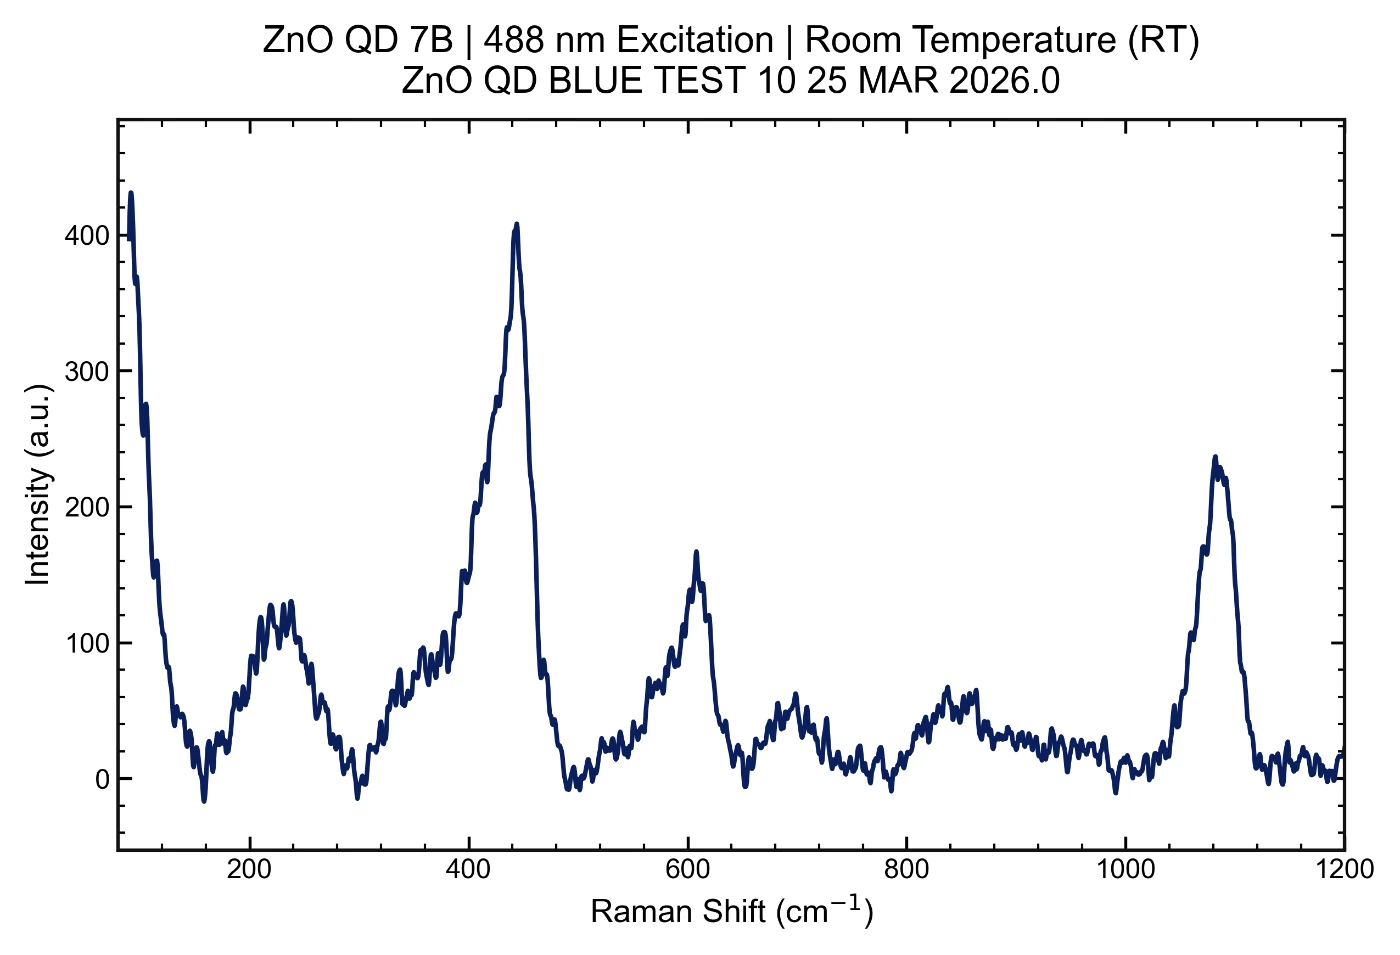
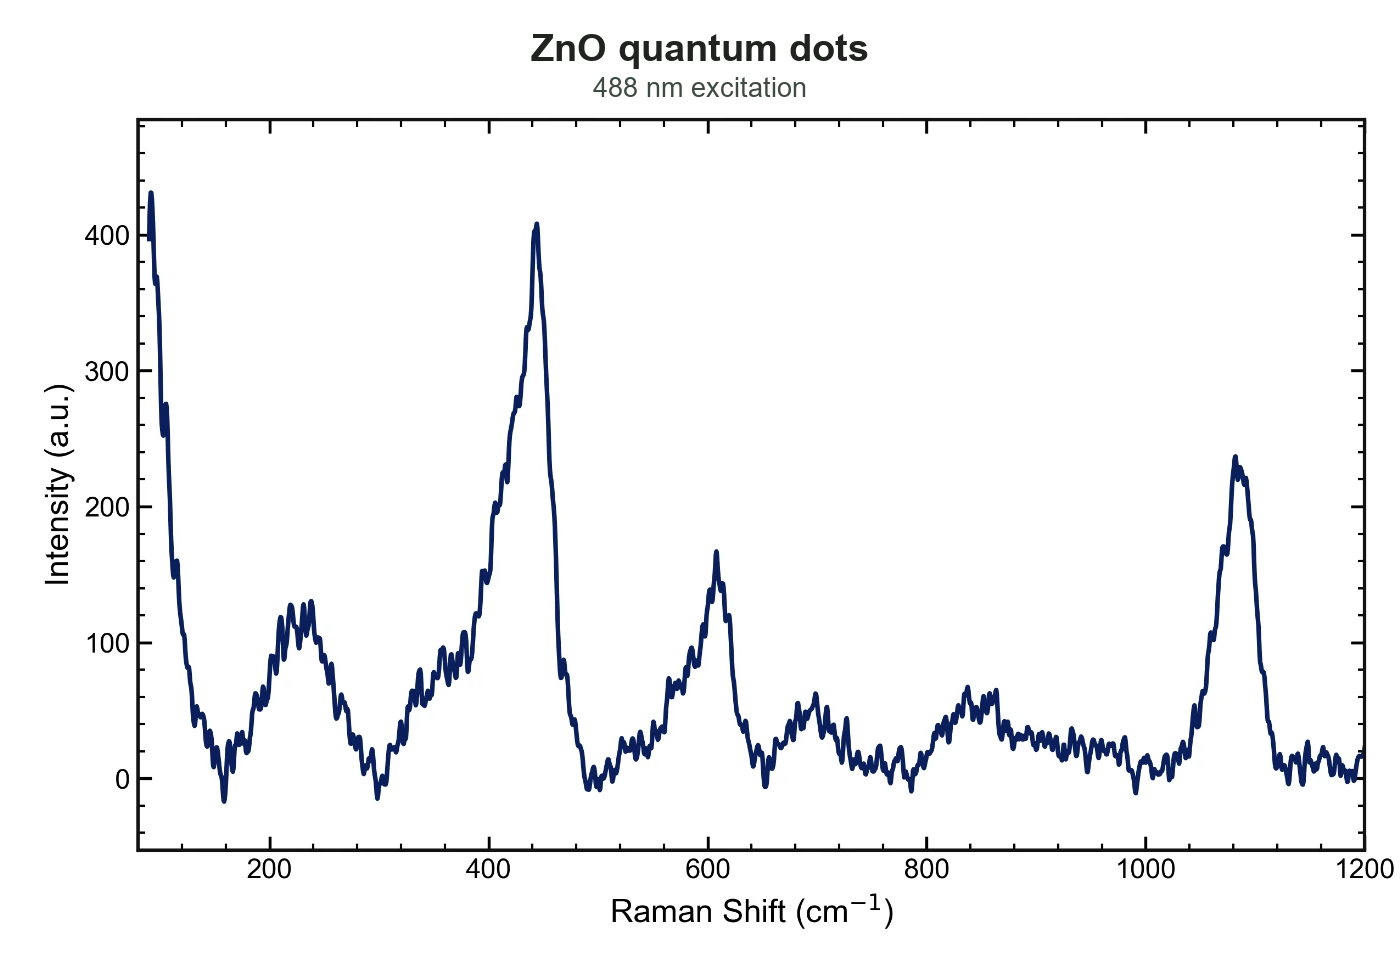
Update academic affiliation and Raman plate

diff --git a/src/components/ResearchShowcase.tsx b/src/components/ResearchShowcase.tsx
@@ -15,13 +15,12 @@ const evidenceFigures = [
   },
   {
     plate: "Plate 02",
-    title: "Room-Temperature Raman Spectrum under 488 nm Excitation",
-    // TODO: Re-export raman-spectrum-488nm-rt-{800,1400}.webp without the lab filename and with a generous left margin for the y-axis label.
+    title: "Raman Spectrum under 488 nm Excitation",
     src: "/assets/raman-spectrum-488nm-rt-1400.webp",
     zoomable: false,
-    alt: "Raman spectrum of zinc oxide quantum dot sample 7B measured at room temperature using 488 nanometer excitation",
+    alt: "Raman spectrum of zinc oxide quantum dots under 488 nanometer excitation, plotted as intensity against Raman shift",
     caption:
-      "Room-temperature Raman spectrum of ZnO quantum dot sample 7B under 488 nm excitation. The trace shows intensity in arbitrary units over approximately 80–1200 cm⁻¹.",
+      "Raman intensity in arbitrary units for ZnO quantum dots under 488 nm excitation. The plotted range extends to 1,200 cm⁻¹.",
   },
 ] as const
 

diff --git a/src/components/contact-footer.tsx b/src/components/contact-footer.tsx
@@ -13,7 +13,6 @@ const profileLinks = [
   { label: "PhilPeople", href: profile.links.philPeople },
   { label: "LinkedIn", href: profile.links.linkedin },
   { label: "GitHub", href: profile.links.github },
-  { label: "Audiomack search", href: profile.links.audiomack },
 ]
 
 export function ContactFooter() {
@@ -75,7 +74,8 @@ export function ContactFooter() {
               </div>
             </div>
             <div className="text-sm text-muted-foreground md:text-right">
-              <p>{profile.location} · {profile.phone}</p>
+              <p className="font-medium text-foreground">{profile.affiliation}</p>
+              <p className="mt-1">{profile.department}</p>
               <a href="#top" className="mt-2 inline-flex items-center gap-1.5 hover:text-foreground">Back to top <ArrowUp className="size-3.5" aria-hidden="true" /></a>
             </div>
           </div>

diff --git a/src/content/profile.ts b/src/content/profile.ts
@@ -3,9 +3,8 @@ export const profile = {
   mark: "WHB",
   descriptor: "Quantum Physics Researcher & Philosophical Writer",
   affiliation: "Howard University",
+  department: "Department of Physics and Astronomy",
   email: "wisdom.benson@bison.howard.edu",
-  phone: "+1 984-312-9015",
-  location: "Silver Spring, Maryland",
   portrait: "/assets/wisdom-benson-portrait.jpeg",
   resume: "/wisdom-benson-resume.pdf",
   links: {
@@ -16,7 +15,6 @@ export const profile = {
     philPeople: "https://philpeople.org/profiles/wisdom-benson",
     googleScholar: "https://scholar.google.com/citations?user=vxn6NxwAAAAJ&hl=en&oi=ao",
     philPapers: "https://philpapers.org/rec/BENREA-14",
-    audiomack: "https://audiomack.com/search?q=Wisdom%20Benson",
   },
 } as const
 
